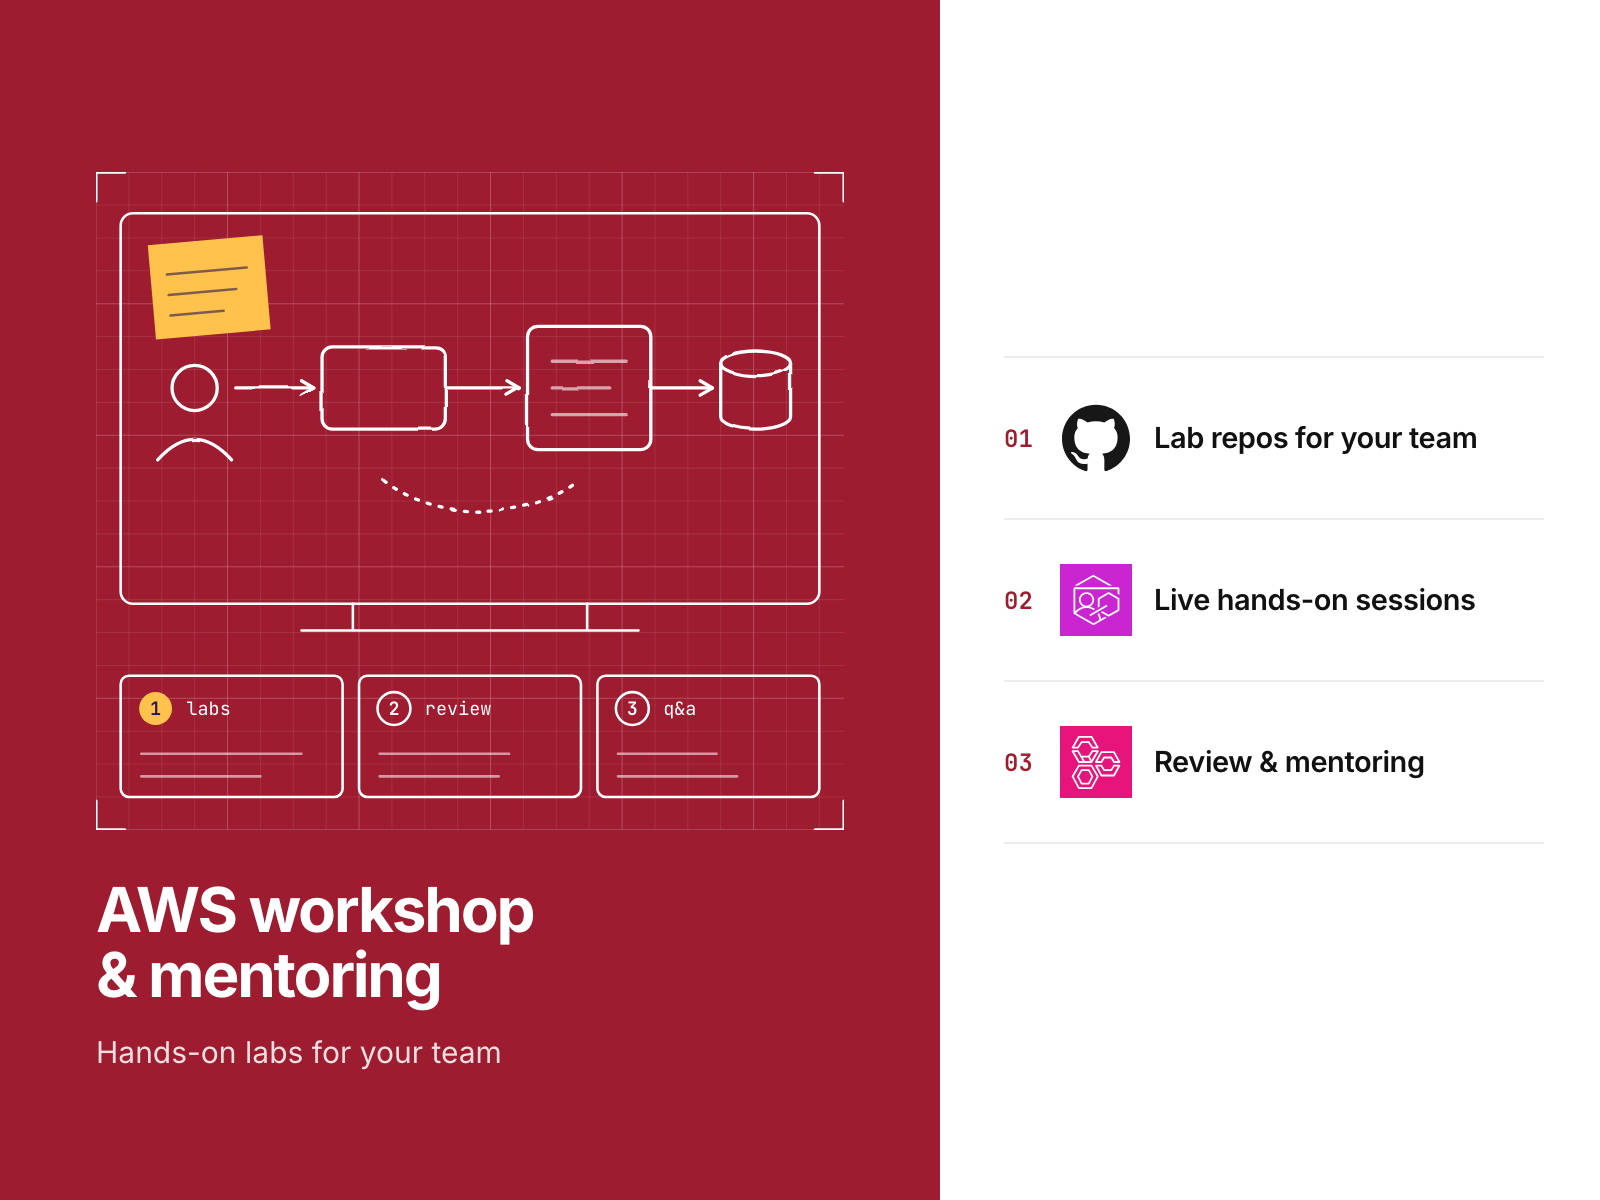
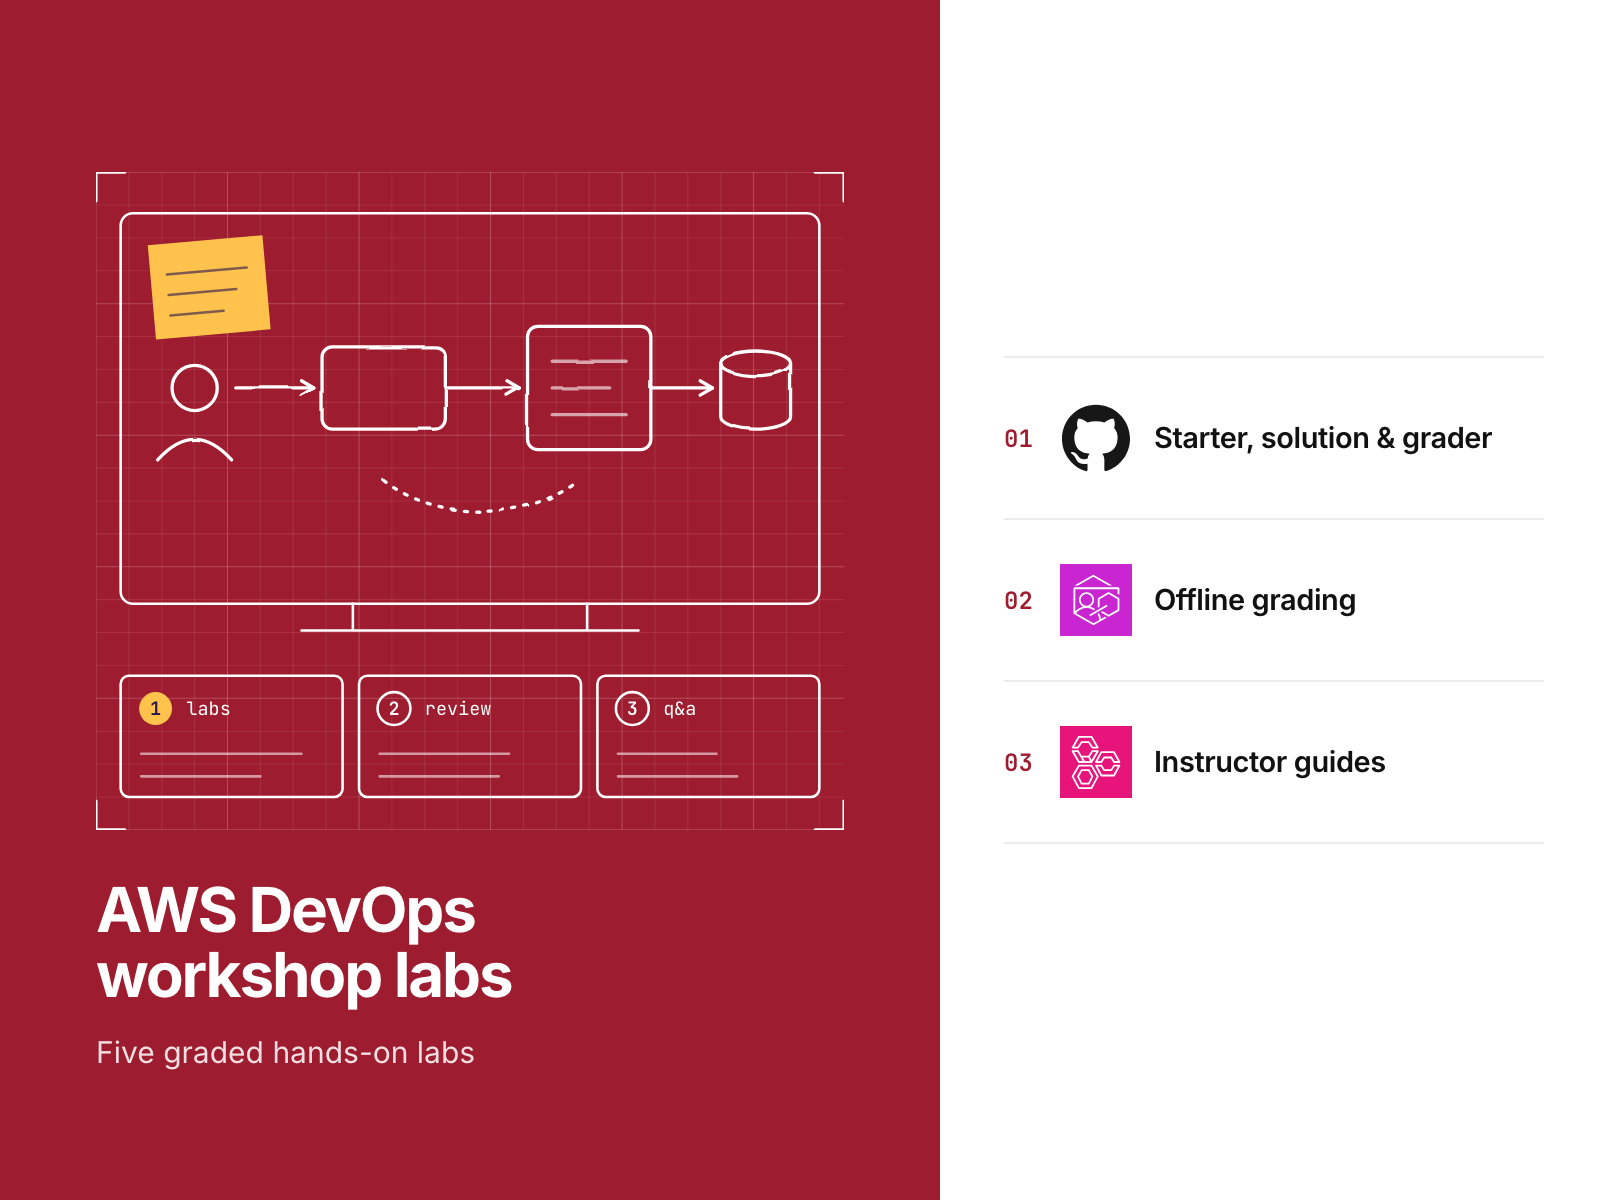
docs: remove marketplace links and keep the portfolio wording neutral (#10)
Removes the Upwork link and the service/sales framing around it; review
instructions now reject marketplace links and service offers.

<!-- This is an auto-generated comment: release notes by coderabbit.ai
-->
## Summary by CodeRabbit

* **Documentation**
* Updated Markdown review guidance to flag job-marketplace profile
links, service offers, and sales badges.
* Clarified that the labs are AWS DevOps workshop labs and updated the
cover image description. The “Related work” section now links only to
the AWS DevOps portfolio.
* **Security**
* Updated the Lab 05 solution image to address reported PCRE2 and
OpenSSL vulnerabilities.
<!-- end of auto-generated comment: release notes by coderabbit.ai -->

diff --git a/README.md b/README.md
@@ -7,7 +7,7 @@ grader that participants can run on a laptop without an AWS account.
 [![License: MIT](https://img.shields.io/badge/license-MIT-blue.svg)](LICENSE)
 ![Lab](https://img.shields.io/badge/type-lab-5b6b7f)
 
-![AWS workshop and mentoring](docs/assets/cover.png)
+![AWS DevOps workshop labs](docs/assets/cover.png)
 
 > **Lab.** Harbor Goods and all data here are fictional. Each repository in this portfolio is a separate engagement
 > with Harbor Goods, a fictional mid-size retailer. Account IDs are AWS documentation examples.
@@ -166,17 +166,15 @@ actions and defines timeouts. All jobs run without cloud credentials.
 - **Outside the scope:** the labs exclude a CDK deployment, an actual GitHub-to-AWS OIDC run and an ECS service. The
   sandbox how-to presents these as optional steps; the
   [ECS Fargate lab](https://github.com/gamaware/aws-ecs-fargate-deploy-lab) covers building the full service.
-- **Engagement additions:** a real engagement includes rebuilding labs around the client's repositories and stack in the
-  Advanced format, English or Spanish sessions, recordings and written notes following every mentoring session.
+- **Engagement additions:** a real engagement includes rebuilding labs around the client's repositories and stack,
+  English or Spanish sessions, recordings and written notes following every mentoring session.
 - **Running costs:** offline work costs nothing. Optional sandbox steps exist for labs 01 to 04 and cost a few cents
   per lab if participants follow each lab's Reset section. Lab 05 has no live step: Fargate has no free tier, so the
   lab stays on local Docker.
 
 ## Related work
 
-This repository belongs to the [AWS DevOps portfolio](https://github.com/gamaware/aws-devops-portfolio) and backs the
-"AWS workshop and mentoring" service:
-[AWS workshop and mentoring on Upwork](https://www.upwork.com/freelancers/~014b3520cf9e140103).
+This repository belongs to the [AWS DevOps portfolio](https://github.com/gamaware/aws-devops-portfolio).
 
 ## License
 

diff --git a/.github/copilot-instructions.md b/.github/copilot-instructions.md
@@ -11,3 +11,4 @@ When reviewing pull requests in this repository:
 - Lab READMEs keep their required sections in order: Objectives, Prerequisites, Duration, Scenario, Steps,
   Expected result, Reset.
 - Verify conventional commit format in PR titles.
+- Flag job-marketplace profile links, service offers and sales badges; none are allowed.

diff --git a/CHANGELOG.md b/CHANGELOG.md
@@ -40,4 +40,6 @@ This file records all notable changes to this project. The format follows
 
 ### Security
 
+- Lab 05 solution image: `python:3.14-slim` moved to the patched Debian digest (PCRE2 CVE-2026-103111, OpenSSL
+  CVE-2026-84782).
 - CI calls the shared reusable workflows from `gamaware/.github` pinned to a full commit SHA.
